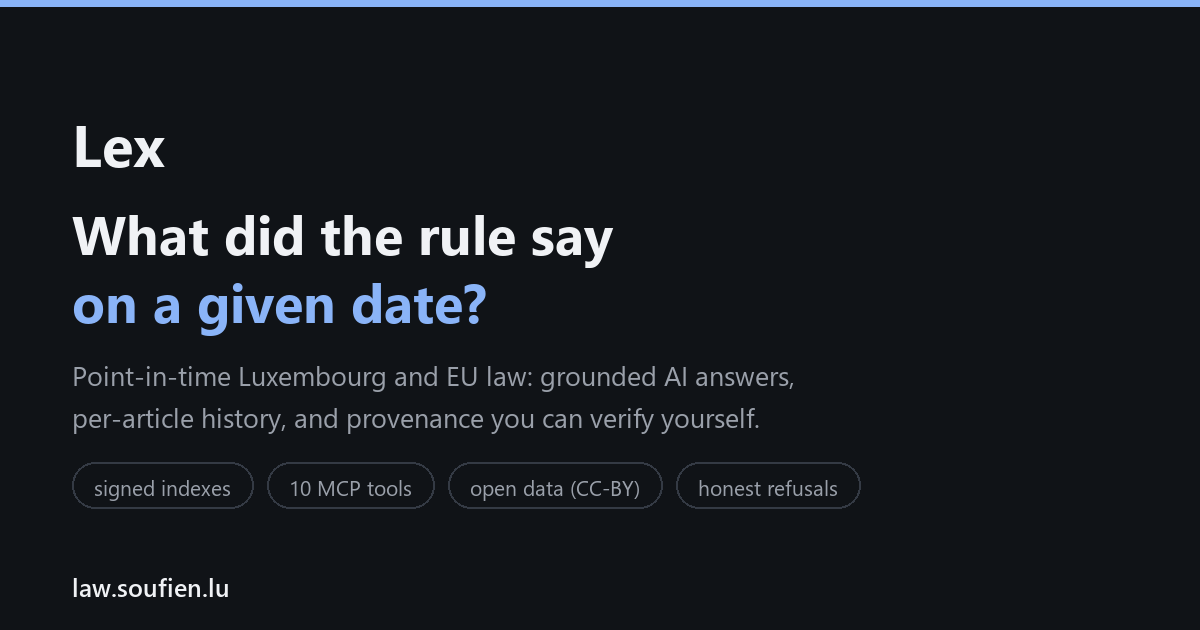
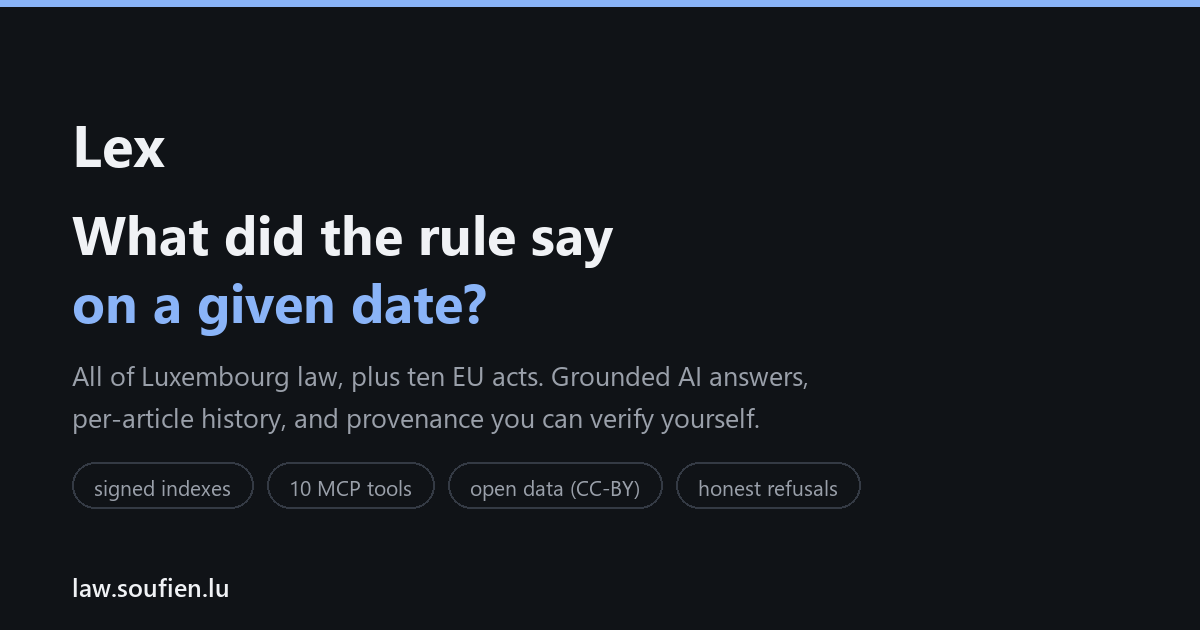
Say "Luxembourg law, plus ten EU acts", because that is what is on the shelf
The site said "Luxembourg and EU law" in seven places, including the page
title, the social card and the search-engine description. Lex holds the
Luxembourg consolidated corpus in full, 1,399 works, and TEN EU acts: GDPR,
CRR, MiFID II, PSD2, SFDR, DORA, NIS2, the AI Act, RED II and the Electricity
Market Directive.

Its own coverage tool already disclosed this, which is the worse half of the
problem: the marketing copy was contradicting the honesty page one click away,
and a reader who arrives expecting the acquis and finds ten files stops
believing the rest of the numbers too.

Naming the ten is also a stronger claim than the vague one, because it shows
the set was chosen rather than scraped: financial and digital compliance, plus
the two energy directives. The exclusion note now lists them by name instead of
saying "flagship acts".

Changed region(s): [[0.0617, 0.573, 0.6783, 0.6333]]

diff --git a/src/Lex.Web/Program.cs b/src/Lex.Web/Program.cs
@@ -63,9 +63,9 @@ string Page(string title, string body, string? subtitle = null, string nav = "",
     <head>
     <meta charset="utf-8"><meta name="viewport" content="width=device-width, initial-scale=1">
     <title>{{H(title)}}, Lex</title>
-    <meta name="description" content="Point-in-time Luxembourg + EU law: what did the rule say on a given date? Grounded AI answers, permalinks, timelines, diffs, cryptographic provenance, and a public MCP endpoint.">
+    <meta name="description" content="Point-in-time Luxembourg law, plus ten EU acts: what did the rule say on a given date? Grounded AI answers, permalinks, timelines, diffs, cryptographic provenance, and a public MCP endpoint.">
     <meta property="og:title" content="{{H(title)}}, Lex">
-    <meta property="og:description" content="Point-in-time Luxembourg + EU law with grounded AI answers, per-article history, and verifiable provenance.">
+    <meta property="og:description" content="Point-in-time Luxembourg law, plus ten EU acts, with grounded AI answers, per-article history, and verifiable provenance.">
     <meta property="og:type" content="website">
     <meta property="og:site_name" content="Lex">
     <meta property="og:image" content="{{publicBase}}/og.png">
@@ -413,8 +413,8 @@ app.MapGet("/", () =>
     // promotional cards, where the visitors most likely to bounce never reached it — while
     // the sentence above the fold merely announced that the site answers questions.
     var body = $"""
-        <p class="lede">Ask what any Luxembourg or EU law said on any day, exactly as its
-        publisher issued it.</p>
+        <p class="lede">Ask what any Luxembourg law said on any day, exactly as its publisher
+        issued it. Plus ten EU acts, from the GDPR to the AI Act.</p>
         """
         + $"""
         <!-- Read synchronously by the workspace on mount, so the doors never flash in or need a
@@ -468,7 +468,7 @@ app.MapGet("/", () =>
         <link rel="stylesheet" href="/app/workspace.css">
         <script type="module" src="/app/workspace.js"></script>
         """;
-    return Results.Content(Page("Luxembourg and EU law, as it stood on any date.", body, null, "ask",
+    return Results.Content(Page("Luxembourg law as it stood on any date, plus ten EU acts.", body, null, "ask",
         h1: "A law is not one document."), "text/html");
 });
 
@@ -544,7 +544,7 @@ app.MapPost("/api/ask/stream", async (HttpRequest req, HttpResponse res) =>
 app.MapGet("/architecture", () =>
 {
     var body = """
-        <p>Lex answers one question, <b>what did the rule say on that date?</b>, for Luxembourg and EU law,
+        <p>Lex answers one question, <b>what did the rule say on that date?</b>, for Luxembourg law and ten EU acts,
         in a way a developer can build on and an auditor can check. Everything below is open source and open data.</p>
 
         <h2>Two layers, one hash chain</h2>
@@ -1419,7 +1419,7 @@ app.MapGet("/changed", (string? from, string? to, string? order, string? publish
     var t = toD.ToString("yyyy-MM-dd");
 
     var sb = new StringBuilder($"""
-        <p class="lede">Every Luxembourg and EU law in Lex that gained a new version between two
+        <p class="lede">Every law in Lex that gained a new version between two
         dates, the corpus-wide view that a single law's timeline cannot give you.</p>
         <form class="inline" method="get">
           <label class="sub">from <input type="date" name="from" value="{f}"></label>
@@ -1653,7 +1653,7 @@ app.MapGet("/stories", () =>
           <a href="/coverage">here is exactly what it holds and what it lacks</a>.</div>
         """);
     return Results.Content(Page("Stories, watch the law move", sb.ToString(),
-        "real histories from the Luxembourg and EU corpora, computed live", "find"), "text/html");
+        "real histories from the Luxembourg corpus and the ten EU acts, computed live", "find"), "text/html");
 });
 
 app.MapGet("/provenance/{*key}", (string key) =>
